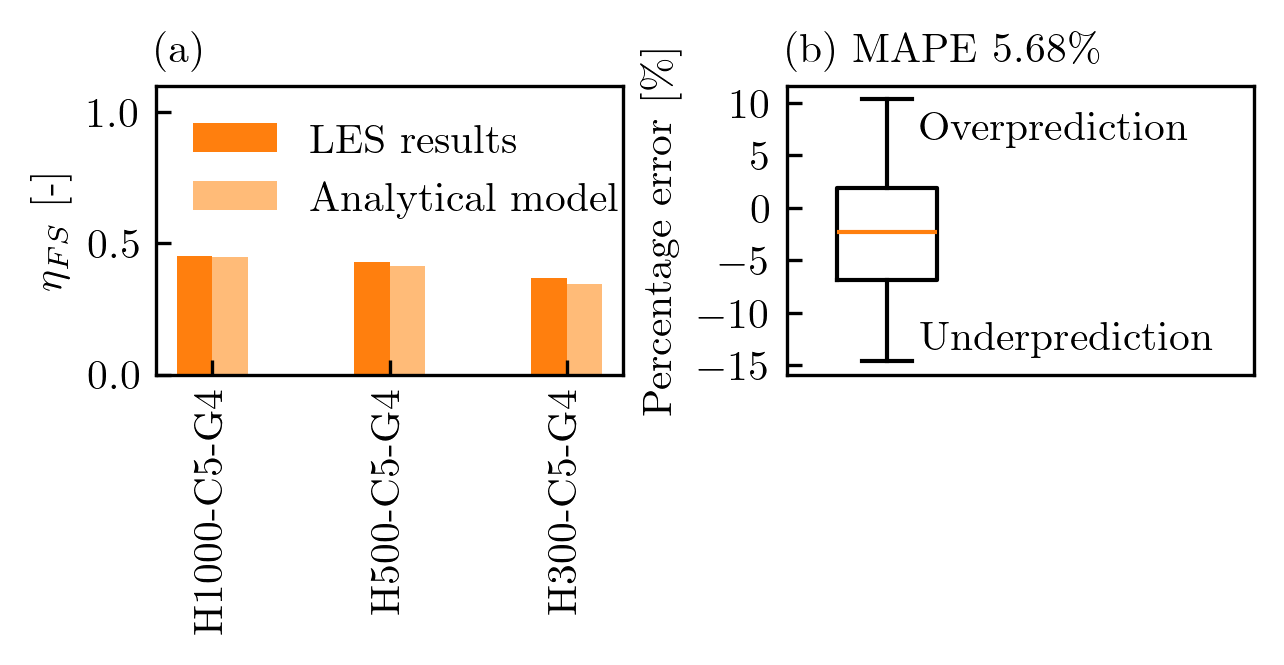
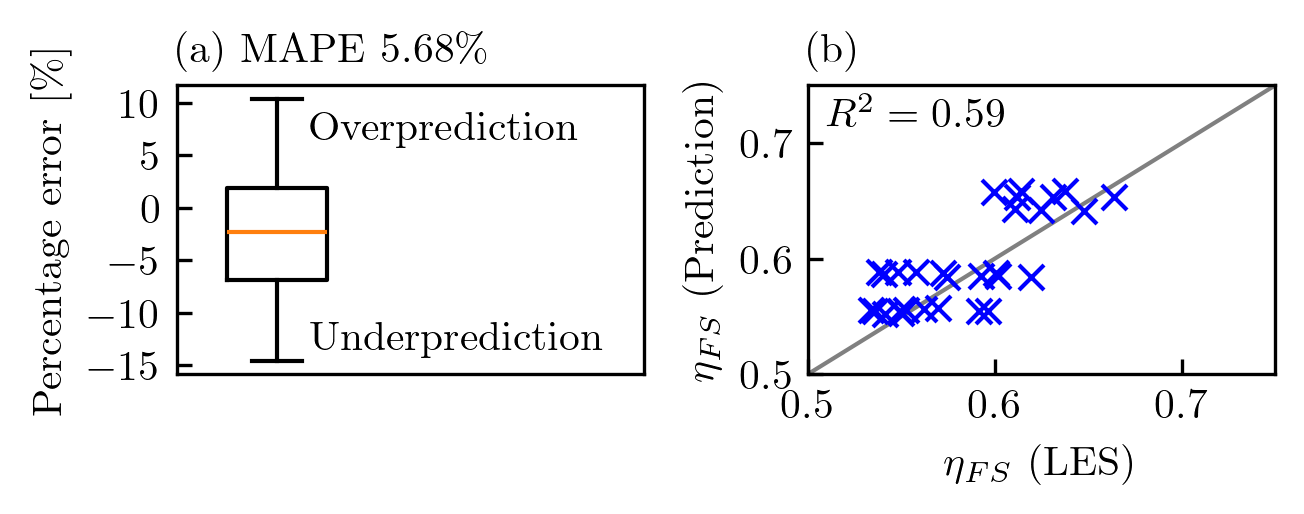
Alter figure 20

diff --git a/paper_figures/analytical_predictions/plot_analytical_predictions.py b/paper_figures/analytical_predictions/plot_analytical_predictions.py
@@ -1,6 +1,8 @@
 import matplotlib.pyplot as plt
 import numpy as np
 import matplotlib as mpl
+from sklearn import linear_model
+from sklearn.metrics import r2_score
 
 plt.style.use("../style.mplstyle")
 
@@ -24,32 +26,39 @@ for i in range(40):
 
 tab20 = mpl.colormaps['tab20']
 
-index_mask = [5, 15, 25]
-ax[0].bar(np.arange(3)-0.1, 1-fsl[index_mask], width=0.2, label=r'LES results', color=tab20(2))
-ax[0].bar(np.arange(3)+0.1, 1-fsl_predictions[index_mask], width=0.2, label=r'Analytical model', color=tab20(3))
-ax[0].set_xticks([0,1,2])
-ax[0].set_xticklabels([r'H1000-C5-G4', r'H500-C5-G4', r'H300-C5-G4'], rotation=90)
-ax[0].set_ylabel(r'$\eta_{FS}$ [-]')
-ax[0].set_ylim([0,1.1])
-ax[0].set_title(r'(a)', loc='left')
-ax[0].legend(loc='upper left', ncol=1, frameon=False)
-ax[0].set_box_aspect(1/golden_ratio)
-
 #exclude cases H300-C0-G0 and H150-C0-G0
 index_mask = [i != 20 and i < 30 for i in range(40)]
 
 percentage_error = 100*(fsl[index_mask] - fsl_predictions[index_mask])/(1-fsl[index_mask])
 print("Mean aboslute percentage error (%) ",np.mean(np.abs(percentage_error)))
 
-ax[1].boxplot(percentage_error)
-ax[1].set_xticks([])
-ax[1].set_yticks([-15,-10,-5,0,5,10])
-ax[1].set_xlim([0.85, 1.55])
-ax[1].set_ylabel(r'Percentage error [\%]')
-ax[1].text(1.05, 7.5, r'Overprediction', ha='left', va='center')
-ax[1].text(1.05,-12.5, r'Underprediction', ha='left', va='center')
-ax[1].set_title(r'(b) MAPE 5.68\%', loc='left')
+ax[0].boxplot(percentage_error)
+ax[0].set_xticks([])
+ax[0].set_yticks([-15,-10,-5,0,5,10])
+ax[0].set_xlim([0.85, 1.55])
+ax[0].set_ylabel(r'Percentage error [\%]')
+ax[0].text(1.05, 7.5, r'Overprediction', ha='left', va='center')
+ax[0].text(1.05,-12.5, r'Underprediction', ha='left', va='center')
+ax[0].set_title(r'(a) MAPE 5.68\%', loc='left')
+ax[0].set_box_aspect(1/golden_ratio)
+
+ax[1].plot([0, 1], [0, 1], 'grey', zorder=0)
+ax[1].scatter(fsl[index_mask], fsl_predictions[index_mask], c='b', marker='x', zorder=1)
+ax[1].set_xlim([0.5, 0.75])
+ax[1].set_ylim([0.5, 0.75])
 ax[1].set_box_aspect(1/golden_ratio)
+ax[1].set_title(r'(b)', loc='left')
+ax[1].set_ylabel(r'$\eta_{FS}$ (Prediction)')
+ax[1].set_xlabel(r'$\eta_{FS}$ (LES)')
+
+#fit linear regression to data
+regr = linear_model.LinearRegression()
+regr.fit(fsl[index_mask].reshape(-1, 1), fsl_predictions[index_mask].reshape(-1, 1))
+
+#calculate r2 score
+y_predict = regr.predict(fsl[index_mask].reshape(-1, 1))
+r_squared = r2_score(fsl_predictions[index_mask], y_predict)
+ax[1].text(0.51, 0.74, rf'$R^2={round(r_squared,3)}$', ha='left', va='top')
 
 plt.subplots_adjust(wspace=0.35)
 plt.savefig('KirbyFig17.png', bbox_inches='tight')
